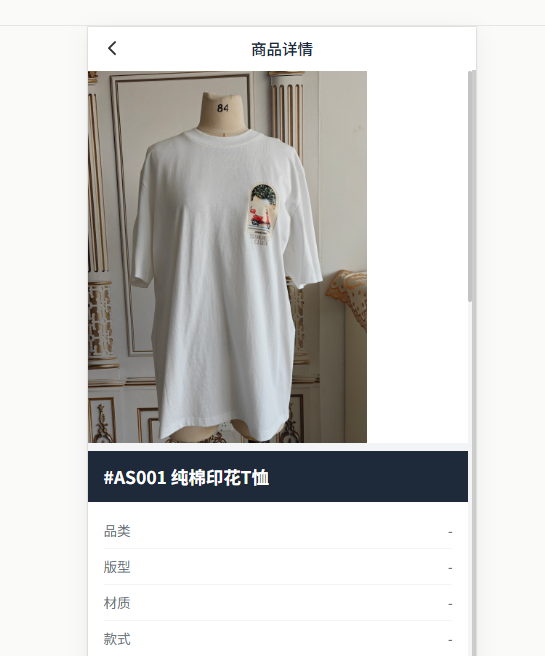
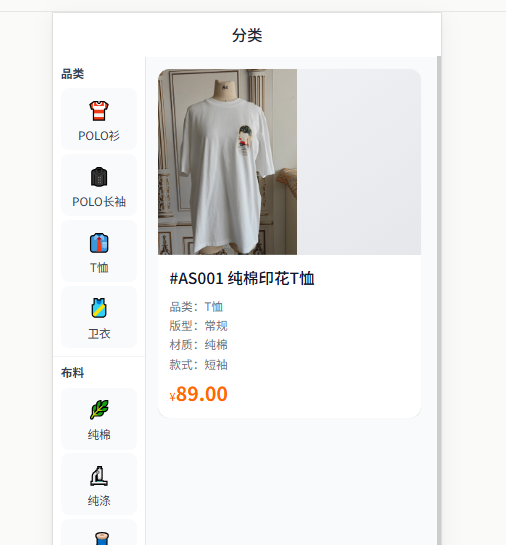
fix: 修复分类页产品图片显示样式，使用aspectFill模式占满容器

diff --git a/src/pages/category/index.tsx b/src/pages/category/index.tsx
@@ -300,15 +300,17 @@ const CategoryPage: FC = () => {
                   }}
                 >
                   {/* 商品图片 */}
-                  <View className="w-full h-48 bg-gradient-to-br from-gray-100 to-gray-200 flex items-center justify-center">
+                  <View className="w-full h-48 bg-white">
                     {product.image_url ? (
                       <Image 
                         src={product.image_url}
-                        mode="aspectFit"
+                        mode="aspectFill"
                         className="w-full h-full"
                       />
                     ) : (
-                      <Text className="text-6xl text-gray-300">👕</Text>
+                      <View className="w-full h-full flex items-center justify-center">
+                        <Text className="text-6xl text-gray-300">👕</Text>
+                      </View>
                     )}
                   </View>
                   
